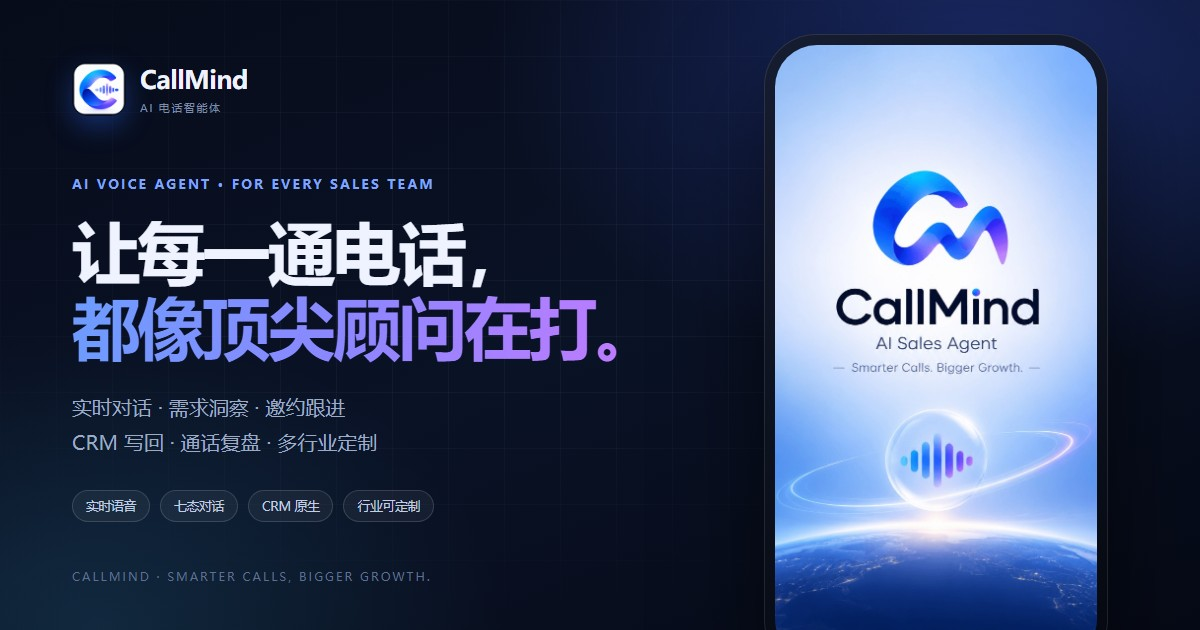
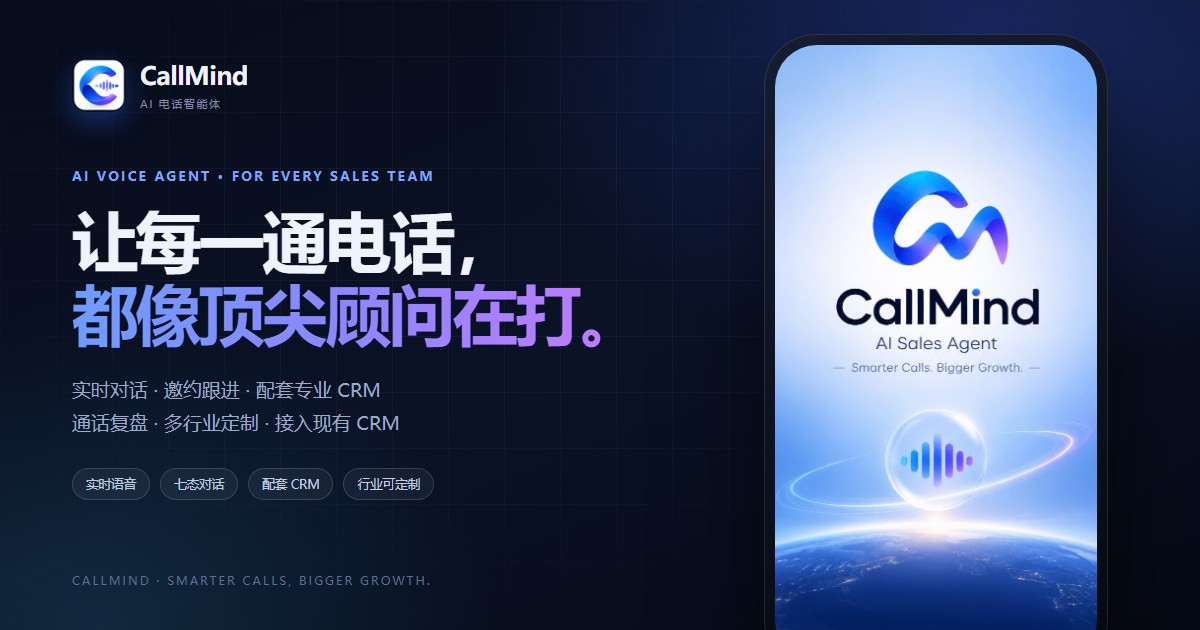
Add bundled professional CRM and existing-CRM integration
Introduce a CRM section with an included sales CRM mock, six
capabilities, bundled-vs-connected delivery modes, and API/field
integration guidance; update nav, hero, numbers, SEO and OG copy.

diff --git a/index.html b/index.html
@@ -4,7 +4,7 @@
   <meta charset="utf-8" />
   <meta name="viewport" content="width=device-width, initial-scale=1" />
   <title>CallMind · 让每一通电话，都像顶尖顾问在打</title>
-  <meta name="description" content="CallMind 是面向多行业的 AI 电销智能体：实时对话、需求洞察、邀约跟进、CRM 写回与通话复盘。按行业预置，也支持按企业流程定制。" />
+  <meta name="description" content="CallMind 是面向多行业的 AI 电销智能体，配套专业 CRM：实时对话、需求洞察、邀约跟进、通话复盘与客户时间线一体交付；已有 CRM 支持 API 定制即可接入。" />
   <meta name="theme-color" content="#F6F8FC" />
   <link rel="canonical" href="https://thinkbugs.github.io/" />
   <link rel="icon" type="image/png" href="favicon.png" />
@@ -12,7 +12,7 @@
   <meta property="og:type" content="website" />
   <meta property="og:site_name" content="CallMind" />
   <meta property="og:title" content="CallMind · 让每一通电话，都像顶尖顾问在打" />
-  <meta property="og:description" content="AI 电话智能体：实时对话、需求洞察、CRM 写回、通话后复盘与专属音色。" />
+  <meta property="og:description" content="AI 电销智能体 + 配套专业 CRM：实时对话、邀约跟进、通话复盘与客户时间线；已有 CRM 支持 API 定制即可接入。" />
   <meta property="og:url" content="https://thinkbugs.github.io/" />
   <meta property="og:image" content="https://thinkbugs.github.io/assets/img/og.jpg" />
   <meta property="og:image:width" content="1200" />
@@ -29,7 +29,7 @@
     "applicationCategory": "BusinessApplication",
     "operatingSystem": "Android",
     "url": "https://thinkbugs.github.io/",
-    "description": "面向多行业的 AI 电销智能体：实时对话、需求洞察、邀约跟进、CRM 写回与通话复盘，支持行业预置与企业定制。",
+    "description": "面向多行业的 AI 电销智能体，配套专业 CRM，也可接入客户现有 CRM：实时对话、需求洞察、邀约跟进、通话复盘与客户时间线。",
     "offers": { "@type": "Offer", "price": "0", "priceCurrency": "CNY", "description": "企业租户演示申请" }
   }
   </script>
@@ -46,6 +46,7 @@
       <nav class="nav-links" aria-label="主导航">
         <a href="#capabilities">产品能力</a>
         <a href="#industries">行业方案</a>
+        <a href="#crm">配套 CRM</a>
         <a href="#custom">定制交付</a>
         <a href="#product">产品界面</a>
         <a href="#security">安全合规</a>
@@ -59,6 +60,7 @@
     <div class="mobile-menu" id="mobileMenu">
       <a href="#capabilities">产品能力</a>
       <a href="#industries">行业方案</a>
+      <a href="#crm">配套 CRM</a>
       <a href="#custom">定制交付</a>
       <a href="#product">产品界面</a>
       <a href="#security">安全合规</a>
@@ -74,7 +76,7 @@
         <div class="hero-copy">
           <p class="eyebrow" data-reveal><span class="pulse"></span> AI VOICE AGENT · FOR EVERY SALES TEAM</p>
           <h1 data-reveal>让每一通电话，<br /><span class="grad">都像顶尖顾问在打。</span></h1>
-          <p class="lede" data-reveal>CallMind 把实时对话、需求洞察、邀约跟进、CRM 写回与通话复盘，交给一位始终在线、始终专业的 AI 销售顾问。教育、房产、美业、家装、汽车、企服，按行业预置，也按你的流程定制。</p>
+          <p class="lede" data-reveal>CallMind 把实时对话、需求洞察、邀约跟进与通话复盘，交给一位始终在线的 AI 销售顾问，并配套专业 CRM。按行业预置，也能接入你现有的 CRM。</p>
           <div class="hero-actions" data-reveal>
             <a class="btn btn-primary btn-lg" href="#capabilities">查看产品能力</a>
             <a class="btn btn-soft btn-lg" href="#product">看一次真实通话</a>
@@ -82,7 +84,7 @@
           <ul class="hero-facts" data-reveal>
             <li><span>实时语音</span>ASR · LLM · TTS</li>
             <li><span>七态对话</span>不背话术</li>
-            <li><span>CRM 原生</span>跟进自动写回</li>
+            <li><span>CRM 双模式</span>内置配套 · 也可接入现有</li>
             <li><span>行业可定制</span>模板 + 深度定制</li>
           </ul>
         </div>
@@ -216,8 +218,8 @@
           </article>
           <article class="cap-card" data-reveal>
             <span class="cap-ico">↗</span>
-            <h3>与 CRM 同一个事实源</h3>
-            <p>brief 进入对话，跟进、意向、下次时间与录音自动写回。销售看到的是一条会生长的客户时间线。</p>
+            <h3>配套 CRM，也能接入现有</h3>
+            <p>配套专业 CRM 开箱即用；已有 CRM 支持 API 或字段定制时，接入同一个事实源。跟进、意向、下次时间与录音自动写回。</p>
             <ul><li>通话前读线索</li><li>挂断后写跟进</li><li>录音云端归档</li></ul>
           </article>
           <article class="cap-card" data-reveal>
@@ -432,6 +434,76 @@
       </div>
     </section>
 
+    <section class="section crm" id="crm">
+      <div class="shell">
+        <div class="section-head split" data-reveal>
+          <div>
+            <p class="eyebrow">CRM INCLUDED, OR CONNECTED</p>
+            <h2>不只替你把电话打好，<br />还给你一套专业 CRM。</h2>
+          </div>
+          <p class="head-side">CallMind 配套一套为电话销售设计的专业 CRM：线索、客户、跟进、录音、复盘与经营看板在同一条时间线上。已有 CRM 支持 API 或字段定制的客户，也可以直接接入。</p>
+        </div>
+        <div class="crm-board">
+          <div class="crm-visual" data-reveal>
+            <div class="crm-window">
+              <div class="crm-bar"><i></i><i></i><i></i><span>CallMind CRM · 客户时间线</span></div>
+              <div class="crm-body">
+                <aside class="crm-side">
+                  <b>CallMind CRM</b>
+                  <span class="on">线索</span><span>客户</span><span>跟进</span><span>通话</span><span>看板</span>
+                </aside>
+                <div class="crm-main">
+                  <div class="crm-kpis">
+                    <div><span>今日待跟进</span><b>18</b></div>
+                    <div><span>本周邀约</span><b>42</b></div>
+                    <div><span>意向 A/B</span><b>23</b></div>
+                  </div>
+                  <div class="crm-table">
+                    <div class="crm-tr crm-th"><span>客户</span><span>阶段</span><span>下次跟进</span><span>归属</span></div>
+                    <div class="crm-tr"><span><b>李女士</b><small>初二英语</small></span><span class="crm-stage">试听邀约</span><span>今天 10:00</span><span>林顾问</span></div>
+                    <div class="crm-tr"><span><b>王先生</b><small>朝阳三居</small></span><span class="crm-stage">已带看</span><span>明天 14:00</span><span>周主管</span></div>
+                    <div class="crm-tr"><span><b>陈女士</b><small>敏感肌护理</small></span><span class="crm-stage">已到店</span><span>周五 11:00</span><span>林顾问</span></div>
+                  </div>
+                  <div class="crm-timeline">
+                    <span class="crm-dot" aria-hidden="true"></span>
+                    <div><b>通话复盘已写回</b><p>“周六 10:00 试听，价格敏感；下次先给价值，再锁时间。”</p></div>
+                  </div>
+                </div>
+              </div>
+            </div>
+            <div class="crm-float"><b>AI 复盘</b><span>录音 · 转写 · 下次策略</span></div>
+          </div>
+          <div class="crm-copy" data-reveal>
+            <h3>一通电话的每个结果，都留在这条时间线上。</h3>
+            <ul class="crm-list">
+              <li><b>线索与客户档案</b><span>来源、需求、意向等级、关键原话，一屏看清。</span></li>
+              <li><b>跟进时间线</b><span>每通电话、录音、AI 复盘与下次计划自动归档。</span></li>
+              <li><b>通话与录音</b><span>录音回放、整通转写与复盘结果放在同一条记录里。</span></li>
+              <li><b>话术与知识库</b><span>行业模板、异议库与产品资料，团队共用、版本可管。</span></li>
+              <li><b>团队与权限</b><span>顾问、主管、门店与团队的数据边界。</span></li>
+              <li><b>经营看板</b><span>外呼、邀约、到店与阶段转化，用同一份事实源。</span></li>
+            </ul>
+            <p class="crm-backup">主题、偏好、模板、音色与排期支持云端备份，换机登录即恢复。</p>
+          </div>
+        </div>
+        <div class="crm-modes">
+          <article class="crm-mode is-feature" data-reveal>
+            <span class="crm-tag">开箱即用</span>
+            <h3>用 CallMind 配套 CRM</h3>
+            <p>不再额外采购和拼接系统。开通企业租户后，线索进入、AI 外呼、跟进写回、录音复盘与看板在同一处完成。</p>
+            <ul><li>专业电话销售 CRM，随 CallMind 交付</li><li>账号、团队与数据边界统一管理</li><li>配置云端备份，换机即恢复</li></ul>
+          </article>
+          <article class="crm-mode" data-reveal>
+            <span class="crm-tag soft">已有系统</span>
+            <h3>接入你现有的 CRM</h3>
+            <p>现有 CRM 支持 API、Webhook 或字段定制时，按你的对象模型接入：线索、客户、商机、跟进与通话结果双向同步。</p>
+            <ul><li>字段与阶段映射，不改你的使用习惯</li><li>通话结果、录音与下次计划自动回写</li><li>权限、留存与部署方式按企业要求</li></ul>
+            <p class="crm-mode-note">封闭且无法定制的系统，可先用配套 CRM 并行运行。</p>
+          </article>
+        </div>
+      </div>
+    </section>
+
     <section class="section custom" id="custom">
       <div class="shell">
         <div class="section-head split" data-reveal>
@@ -445,8 +517,8 @@
           <article class="tier-card" data-reveal>
             <div class="tier-top"><span class="tier-num">01</span><span class="tier-badge">快速试点</span></div>
             <h3>行业标准包</h3>
-            <p>选择行业模板，预置七态流程、知识库、异议库与 CRM 字段，用现有界面快速上线。</p>
-            <ul><li>行业流程与话术模板</li><li>标准客户字段与写回规则</li><li>合规与频控默认开启</li></ul>
+            <p>选择行业模板，预置七态流程、知识库与异议库；配套 CRM 开箱即用，快速上线试点。</p>
+            <ul><li>行业流程与话术模板</li><li>配套 CRM 与标准字段</li><li>合规与频控默认开启</li></ul>
           </article>
           <article class="tier-card is-feature" data-reveal>
             <div class="tier-top"><span class="tier-num">02</span><span class="tier-badge dark">深度定制</span></div>
@@ -457,8 +529,8 @@
           <article class="tier-card" data-reveal>
             <div class="tier-top"><span class="tier-num">03</span><span class="tier-badge">规模集成</span></div>
             <h3>接进现有系统</h3>
-            <p>与 CRM、呼叫中心、工单与企微打通；按企业要求配置权限、留存与部署方式。</p>
-            <ul><li>API / Webhook 与单点登录</li><li>多团队、多门店权限</li><li>数据留存与部署评估</li></ul>
+            <p>与现有 CRM、呼叫中心、工单与企微打通；已有 CRM 支持 API 或字段定制时，按对象模型接入。</p>
+            <ul><li>现有 CRM / API / Webhook 接入</li><li>多团队、多门店权限</li><li>数据留存与部署评估</li></ul>
           </article>
         </div>
         <div class="custom-layers" data-reveal>
@@ -624,7 +696,7 @@
         <div data-reveal><b>7</b><span>对话状态</span><small>从开场到收尾</small></div>
         <div data-reveal><b>3</b><span>复刻音色 / 次录音</span><small>原声 · 降噪 · 均衡</small></div>
         <div data-reveal><b>6</b><span>界面主题</span><small>为不同团队气质设计</small></div>
-        <div data-reveal><b>1</b><span>CRM 事实源</span><small>线索、通话、复盘同源</small></div>
+        <div data-reveal><b>2</b><span>CRM 模式</span><small>内置配套 · 接入现有</small></div>
       </div>
     </section>
 
@@ -660,7 +732,7 @@
           <button class="btn btn-white btn-lg" data-open-demo>预约产品演示</button>
           <a class="btn btn-outline-light btn-lg" href="privacy.html">了解数据与隐私</a>
         </div>
-        <div class="cta-meta">实时对话 · CRM 写回 · 通话复盘 · 专属音色</div>
+        <div class="cta-meta">实时对话 · 配套 CRM · 通话复盘 · 专属音色</div>
       </div>
     </section>
   </main>
@@ -669,10 +741,10 @@
     <div class="shell footer-grid">
       <div class="footer-brand">
         <a class="brand" href="#top"><img src="assets/img/logo.png" alt="" class="brand-mark" /><span class="brand-text"><b>CallMind</b><small>AI 电话智能体</small></span></a>
-        <p>面向多行业的 AI 电销智能体。按行业预置，也按你的流程定制。Smarter calls, bigger growth.</p>
+        <p>面向多行业的 AI 电销智能体，配套专业 CRM。按行业预置，也按你的流程定制。Smarter calls, bigger growth.</p>
       </div>
       <div class="footer-links">
-        <div><b>产品</b><a href="#capabilities">产品能力</a><a href="#industries">行业方案</a><a href="#custom">定制交付</a><a href="#product">产品界面</a><a href="#voice">专属音色</a></div>
+        <div><b>产品</b><a href="#capabilities">产品能力</a><a href="#industries">行业方案</a><a href="#crm">配套 CRM</a><a href="#custom">定制交付</a><a href="#product">产品界面</a><a href="#voice">专属音色</a></div>
         <div><b>公司</b><a href="#how">工作方式</a><a href="#security">安全合规</a><a href="privacy.html">数据与隐私</a></div>
         <div><b>联系</b><a href="#contact">预约演示</a><a href="https://github.com/thinkbugs" rel="noopener">GitHub</a></div>
       </div>

diff --git a/assets/css/style.css b/assets/css/style.css
@@ -263,6 +263,56 @@ ul { margin: 0; padding: 0; list-style: none; }
 .industry-cta span { font-size: 11px; color: var(--quiet); }
 .industry-foot { margin-top: 18px; font-size: 11.5px; color: var(--quiet); line-height: 1.8; }
 
+/* crm */
+.crm { background: linear-gradient(180deg, #f4f7ff 0%, #edf3ff 100%); }
+.crm-board { display: grid; grid-template-columns: 1.05fr .95fr; gap: 54px; align-items: center; }
+.crm-visual { position: relative; }
+.crm-window { background: #fff; border: 1px solid rgba(20,34,80,.10); border-radius: 20px; overflow: hidden; box-shadow: 0 26px 60px rgba(20,34,80,.12); }
+.crm-bar { display: flex; align-items: center; gap: 6px; padding: 12px 16px; background: #0e1526; color: #8fa0c0; font-size: 11px; }
+.crm-bar i { width: 7px; height: 7px; border-radius: 50%; background: rgba(255,255,255,.18); }
+.crm-bar span { margin-left: 8px; letter-spacing: .02em; }
+.crm-body { display: grid; grid-template-columns: 112px 1fr; }
+.crm-side { display: flex; flex-direction: column; gap: 7px; padding: 16px 12px; border-right: 1px solid var(--line); background: #f7f9ff; }
+.crm-side b { margin-bottom: 8px; font-size: 11px; letter-spacing: -.01em; color: var(--ink); }
+.crm-side span { padding: 6px 8px; border-radius: 7px; font-size: 10.5px; color: var(--muted); }
+.crm-side .on { background: #fff; color: var(--blue); font-weight: 650; box-shadow: 0 4px 12px rgba(20,34,80,.06); }
+.crm-main { min-width: 0; padding: 16px 16px 14px; }
+.crm-kpis { display: grid; grid-template-columns: repeat(3, 1fr); gap: 8px; }
+.crm-kpis > div { padding: 9px 10px; border: 1px solid var(--line); border-radius: 10px; background: #fbfcff; }
+.crm-kpis span { display: block; font-size: 9.5px; color: var(--quiet); }
+.crm-kpis b { display: block; margin-top: 2px; font-size: 20px; letter-spacing: -.03em; }
+.crm-table { margin-top: 12px; }
+.crm-tr { display: grid; grid-template-columns: 1.5fr .9fr 1fr .65fr; gap: 8px; align-items: center; padding: 8px 4px; border-top: 1px solid var(--line); font-size: 10px; color: var(--muted); }
+.crm-tr span { min-width: 0; overflow: hidden; text-overflow: ellipsis; white-space: nowrap; }
+.crm-tr b { display: block; font-size: 10.5px; font-weight: 600; color: var(--ink); }
+.crm-tr small { display: block; font-size: 9px; color: var(--quiet); }
+.crm-th { padding-top: 0; border-top: 0; font-size: 8.5px; letter-spacing: .06em; color: var(--quiet); }
+.crm-stage { justify-self: start; padding: 3px 7px; border-radius: 999px; background: rgba(47,107,255,.08); color: var(--blue); font-size: 9px; white-space: nowrap; }
+.crm-timeline { display: flex; gap: 10px; margin-top: 12px; padding: 11px 12px; border: 1px solid rgba(47,107,255,.12); border-radius: 10px; background: rgba(47,107,255,.05); }
+.crm-dot { flex: 0 0 auto; width: 8px; height: 8px; margin-top: 5px; border-radius: 50%; background: var(--blue); box-shadow: 0 0 0 4px rgba(47,107,255,.12); }
+.crm-timeline b { font-size: 10.5px; }
+.crm-timeline p { margin-top: 2px; font-size: 9.5px; line-height: 1.6; color: var(--muted); }
+.crm-float { position: absolute; left: -18px; bottom: -18px; padding: 11px 14px; border-radius: 14px; background: #0b1020; color: #fff; box-shadow: 0 18px 40px rgba(11,16,32,.25); }
+.crm-float b { display: block; font-size: 11.5px; }
+.crm-float span { display: block; margin-top: 2px; font-size: 9.5px; color: #93a2bf; }
+.crm-copy h3 { margin-bottom: 14px; font-size: clamp(24px, 2.5vw, 31px); line-height: 1.25; letter-spacing: -.03em; text-wrap: balance; }
+.crm-list { border-top: 1px solid var(--line-strong); }
+.crm-list li { display: flex; flex-direction: column; gap: 2px; padding: 11px 0; border-bottom: 1px solid var(--line); }
+.crm-list b { font-size: 13px; }
+.crm-list span { font-size: 11.5px; line-height: 1.6; color: var(--muted); }
+.crm-backup { margin-top: 14px; font-size: 10.5px; line-height: 1.7; color: var(--quiet); }
+.crm-modes { display: grid; grid-template-columns: 1fr 1fr; gap: 16px; margin-top: 34px; }
+.crm-mode { padding: 26px 25px 22px; border: 1px solid var(--line); border-radius: 22px; background: #fff; }
+.crm-mode.is-feature { border-color: rgba(47,107,255,.25); background: linear-gradient(150deg, rgba(47,107,255,.10), rgba(124,92,255,.05)); }
+.crm-tag { display: inline-flex; padding: 4px 9px; border-radius: 999px; background: rgba(47,107,255,.10); color: var(--blue); font-size: 10px; font-weight: 700; }
+.crm-tag.soft { background: rgba(11,16,32,.06); color: var(--muted); }
+.crm-mode h3 { margin: 14px 0 8px; font-size: 20px; letter-spacing: -.02em; }
+.crm-mode p { font-size: 13px; line-height: 1.75; color: var(--muted); }
+.crm-mode ul { display: flex; flex-direction: column; gap: 7px; margin-top: 16px; padding-top: 13px; border-top: 1px solid var(--line); }
+.crm-mode li { display: flex; gap: 8px; font-size: 11.5px; color: var(--quiet); }
+.crm-mode li::before { content: "→"; font-size: 10px; line-height: 1.6; color: var(--blue); }
+.crm-mode .crm-mode-note { margin-top: 12px; font-size: 10.5px; color: var(--quiet); }
+
 /* customization */
 .custom { background: #fff; }
 .tier-grid { display: grid; grid-template-columns: repeat(3, 1fr); gap: 16px; }
@@ -503,6 +553,8 @@ ul { margin: 0; padding: 0; list-style: none; }
   .flow-line { display: none; }
   .flow-step p { min-height: 0; }
   .sec-grid { grid-template-columns: repeat(2, 1fr); }
+  .nav-links { gap: 20px; }
+  .crm-board { gap: 32px; }
 }
 @media (max-width: 900px) {
   .shell { width: min(var(--shell), calc(100% - 36px)); }
@@ -548,6 +600,12 @@ ul { margin: 0; padding: 0; list-style: none; }
   .custom-layers > div { border-left: 0; border-top: 1px solid var(--line); padding: 15px 16px; }
   .custom-layers > div:nth-child(-n+2) { border-top: 0; }
   .deliver { grid-template-columns: 1fr 1fr; gap: 8px 14px; }
+  .crm-board { grid-template-columns: 1fr; gap: 34px; }
+  .crm-body { grid-template-columns: 1fr; }
+  .crm-side { display: none; }
+  .crm-float { position: static; display: flex; align-items: center; justify-content: space-between; gap: 10px; margin-top: 12px; }
+  .crm-float span { margin-top: 0; }
+  .crm-modes { grid-template-columns: 1fr; }
 }
 @media (max-width: 620px) {
   .section { padding: 78px 0; }
@@ -591,6 +649,12 @@ ul { margin: 0; padding: 0; list-style: none; }
   .d-ai, .d-user { font-size: 11.5px; }
   .ind-demo { margin-left: 0; padding-top: 8px; }
   .deliver { grid-template-columns: 1fr; }
+  .crm-main { padding: 13px 12px; }
+  .crm-kpis b { font-size: 18px; }
+  .crm-tr { grid-template-columns: 1.4fr .9fr 1fr; gap: 6px; }
+  .crm-tr span:nth-child(4) { display: none; }
+  .crm-copy h3 { font-size: 24px; }
+  .crm-mode { padding: 22px 20px 19px; }
 }
 @media (prefers-reduced-motion: reduce) {
   html { scroll-behavior: auto; }

diff --git a/README.md b/README.md
@@ -3,7 +3,7 @@
 Official product site for **CallMind — AI 电销智能体** for every sales team, published with GitHub Pages.
 
 - Production: https://thinkbugs.github.io/
-- Positioning: all-industry AI outbound agent (education, real estate, beauty, home improvement, auto, B2B), configurable per customer
+- Positioning: all-industry AI outbound agent with a bundled professional CRM (education, real estate, beauty, home improvement, auto, B2B); existing CRM can connect via API/custom fields
 - Stack: static HTML / CSS / vanilla JS (no build step)
 - Pages: `index.html`, `privacy.html`, `404.html`
 
